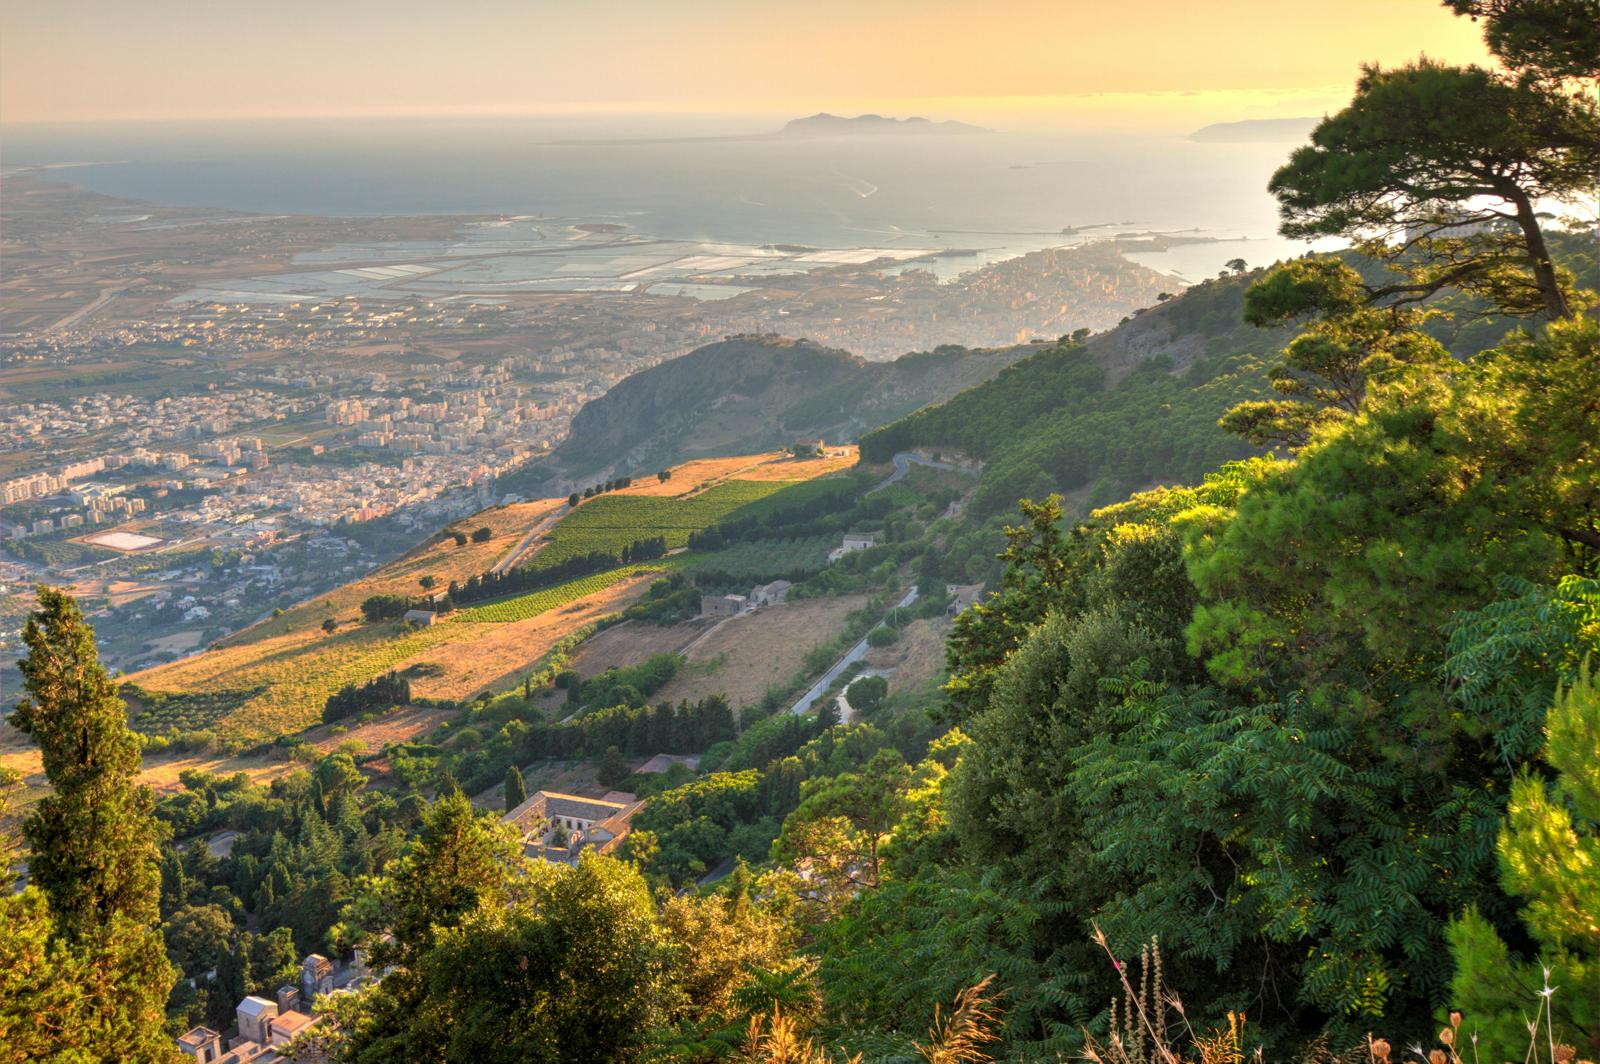
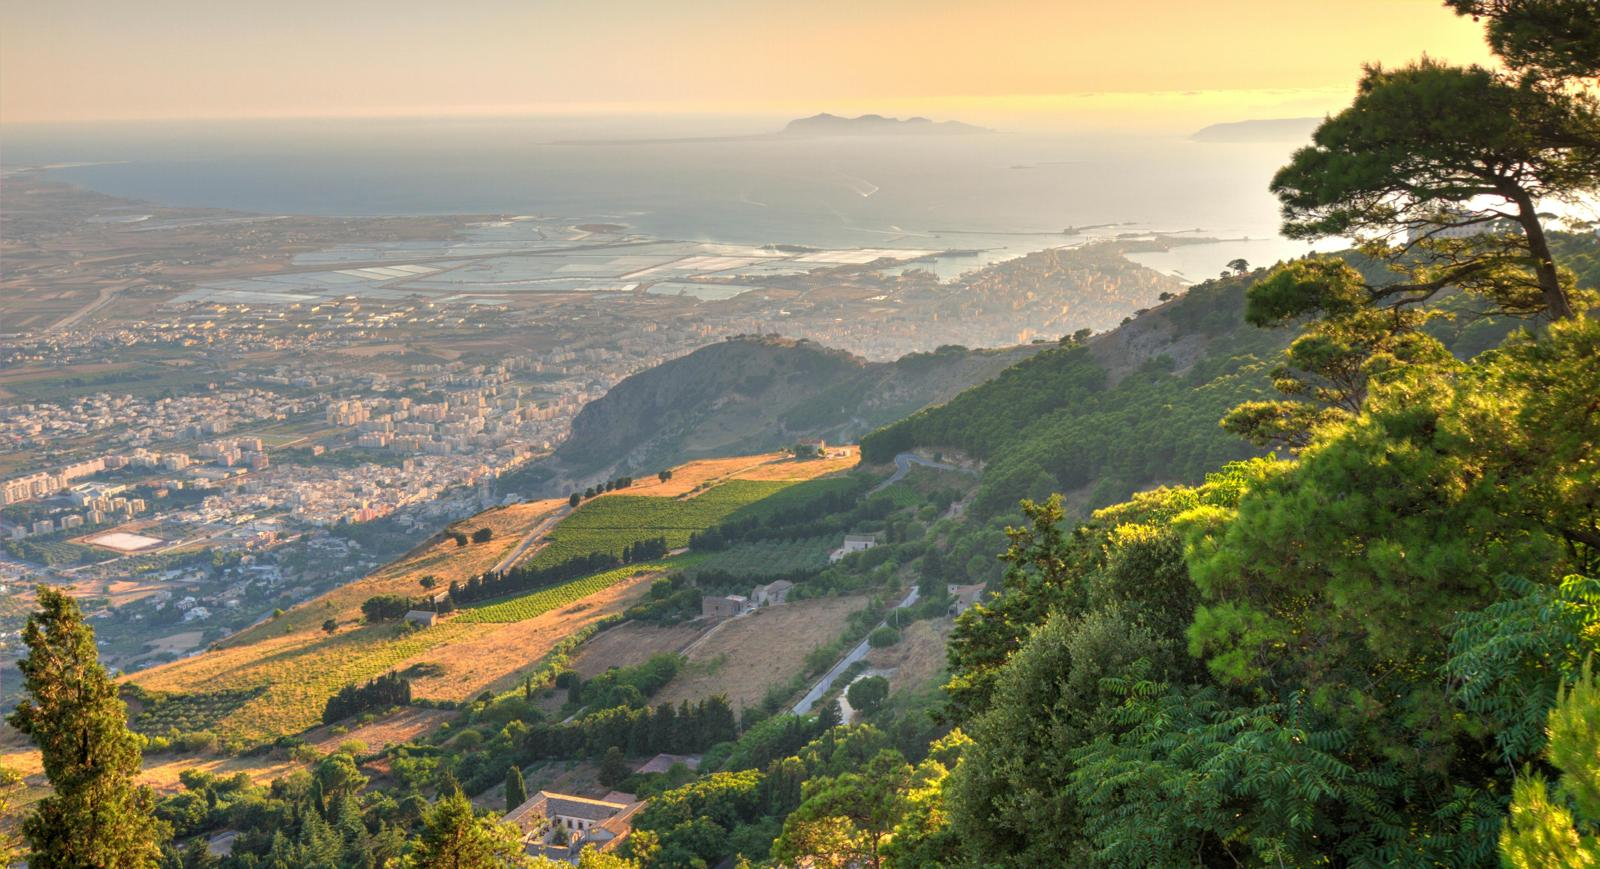
Update territory image to panoramic and tweak punctuation
Made-with: Cursor

diff --git a/app/page.tsx b/app/page.tsx
@@ -147,7 +147,7 @@ export default async function HomePage() {
             Une boisson consommée à l&apos;image, un bijou porté, un accessoire manipulé, votre restaurant qui devient un décor
             ou un tableau visible en arrière-plan.
             <br />
-            Offrez à votre marque une visibilité sur grand écran !
+            Offrez à votre marque une visibilité sur grand écran ?
           </p>
           <div className="concept-pillars">
             <div>
